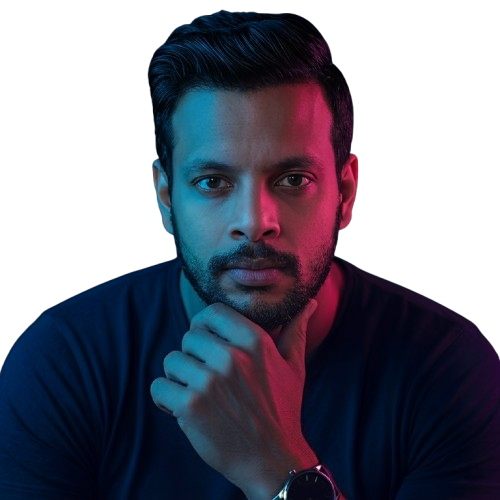
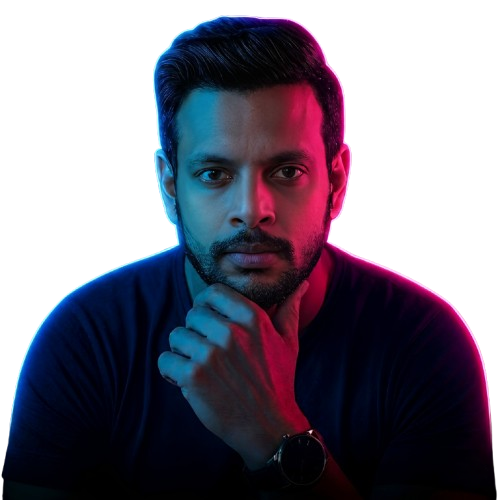
update hero image

diff --git a/src/app/components/ThemeContext.tsx b/src/app/components/ThemeContext.tsx
@@ -1,28 +1,27 @@
 import React, { createContext, useContext, useEffect, useState } from 'react';
 
-type ThemeContextType = {
+interface ThemeContextType {
   isDark: boolean;
   toggleTheme: () => void;
-};
+}
 
 const ThemeContext = createContext<ThemeContextType | undefined>(undefined);
 
 export function ThemeProvider({ children }: { children: React.ReactNode }) {
-  const [isDark, setIsDark] = useState(true);
+  const [isDark, setIsDark] = useState(true); // Always true for dark mode
 
   useEffect(() => {
-    const root = document.documentElement;
-    if (isDark) {
-      root.classList.add('dark');
-    } else {
-      root.classList.remove('dark');
-    }
-  }, [isDark]);
+    // Force dark mode
+    document.documentElement.classList.add('dark');
+    document.documentElement.style.colorScheme = 'dark';
+  }, []);
 
-  const toggleTheme = () => setIsDark(!isDark);
+  const toggleTheme = () => {
+    // Disabled - always dark mode
+  };
 
   return (
-    <ThemeContext.Provider value={{ isDark, toggleTheme }}>
+    <ThemeContext.Provider value={{ isDark: true, toggleTheme }}>
       {children}
     </ThemeContext.Provider>
   );
@@ -30,8 +29,8 @@ export function ThemeProvider({ children }: { children: React.ReactNode }) {
 
 export function useTheme() {
   const context = useContext(ThemeContext);
-  if (context === undefined) {
-    throw new Error('useTheme must be used within a ThemeProvider');
+  if (!context) {
+    throw new Error('useTheme must be used within ThemeProvider');
   }
   return context;
 }

diff --git a/src/app/components/Navbar.tsx b/src/app/components/Navbar.tsx
@@ -1,13 +1,9 @@
 import React from 'react';
-import { useTheme } from './ThemeContext';
 import { SocialLinks } from './SocialLinks';
 import { Logo } from './Logo';
-import { Moon, Sun } from 'lucide-react';
 import { motion } from 'motion/react';
 
 export function Navbar() {
-  const { isDark, toggleTheme } = useTheme();
-
   const links = [
     { name: 'Home', href: '#home' },
     { name: 'Skills', href: '#skills' },
@@ -24,10 +20,7 @@ export function Navbar() {
       <div className="max-w-7xl mx-auto px-4 sm:px-6 lg:px-8">
         <div className="flex items-center justify-between h-16">
           <div className="flex items-center gap-3 flex-shrink-0">
-            <Logo className="w-8 h-8" />
-            <div className="font-bold text-2xl tracking-tight bg-clip-text text-transparent bg-gradient-to-r from-blue-600 to-purple-600 dark:from-blue-400 dark:to-purple-400 drop-shadow-sm">
-              Chandima
-            </div>
+            <Logo className="w-8 h-8" showText={true} />
           </div>
           
           <div className="hidden md:block">
@@ -36,7 +29,7 @@ export function Navbar() {
                 <a
                   key={link.name}
                   href={link.href}
-                  className="text-sm font-medium text-gray-700 dark:text-gray-300 hover:text-blue-600 dark:hover:text-blue-400 transition-colors"
+                  className="text-sm font-medium text-gray-700 dark:text-gray-300 hover:bg-clip-text hover:text-transparent hover:bg-gradient-to-r hover:from-blue-600 hover:to-purple-600 transition-all duration-300"
                 >
                   {link.name}
                 </a>
@@ -46,14 +39,6 @@ export function Navbar() {
 
           <div className="flex items-center space-x-6">
             <SocialLinks className="hidden md:flex" />
-            
-            <button
-              onClick={toggleTheme}
-              className="p-2 rounded-full text-gray-600 dark:text-gray-400 hover:bg-gray-100 dark:hover:bg-gray-800 transition-colors"
-              aria-label="Toggle theme"
-            >
-              {isDark ? <Sun className="w-5 h-5" /> : <Moon className="w-5 h-5" />}
-            </button>
           </div>
         </div>
       </div>

diff --git a/src/app/components/WaveSeparator.tsx b/src/app/components/WaveSeparator.tsx
@@ -101,10 +101,10 @@ export function WaveSeparator() {
 
       @keyframes translate {
         0% {
-          transform: translateY(100px);
+          transform: translateY(50px);
         }
         100% {
-          transform: translateY(-100px);
+          transform: translateY(-50px);
         }
       }
     `;